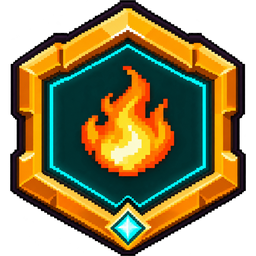
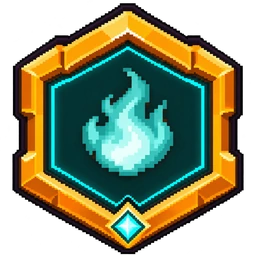
feat(hexsmith): chama turquesa e botões de renomear mais acima

diff --git a/src/components/hex/HexsmithSheet.tsx b/src/components/hex/HexsmithSheet.tsx
@@ -63,8 +63,8 @@ const PORTS: Readonly<Record<HexSlot, { x: number; y: number }>> = {
   luvas: { x: 78.6, y: 82.3 },
 };
 const CORE = { x: 49.8, y: 53.5 };
-/** Os 2 botões de RENOMEAR: na linha da Coroa, à direita dela (entre a Coroa e a Garra). */
-const RENAME_PORTS: Readonly<Record<HexRenameKind, { x: number; y: number }>> = { pet: { x: 73.5, y: 16.5 }, especial: { x: 91, y: 16.5 } };
+/** Os 2 botões de RENOMEAR: um pouco ACIMA da linha da Coroa (y 11,5 contra 16,5; 12/11), à direita dela. */
+const RENAME_PORTS: Readonly<Record<HexRenameKind, { x: number; y: number }>> = { pet: { x: 73.5, y: 11.5 }, especial: { x: 91, y: 11.5 } };
 
 /** Degraus de `tokens.md` §6.1: `nav` 32 no mapa (o encaixe é um destino), `action` 24 nas linhas e no botão, `inline` 20 no saldo. */
 const ICON_MAP = 32;

diff --git a/docs/ASSETS-A-GERAR.md b/docs/ASSETS-A-GERAR.md
@@ -60,7 +60,7 @@ Hoje a tela usa hexágonos GENERATIVOS em código (`src/components/hex/HexRename
 | id | arquivo | uso | formato | prompt (EN) |
 |---|---|---|---|---|
 | ✅ 11/11 `hexsmith-btn-lapis` | `src/assets/soulmon/hexsmith/btn-lapis.webp` | botão da Hexsmith: trocar o NOME do Soulmon (à direita da Coroa) | 256×256, alfa real, fundo transparente, mesmo tamanho dos 5 hexágonos | `A single hexagonal game-UI button, same style, colors, frame thickness and glow as the five port hexagons of the Hexsmith screen (dark teal inner hex, thick colored metallic rim in magenta-pink, small cyan diamond studs at the top and bottom vertices), a clean pencil icon inside (diagonal pencil with eraser, slightly worn silver and cream), pixel-crisp, transparent background, centered, no text, no gear, square 1:1` |
-| ✅ 11/11 `hexsmith-btn-chama` | `src/assets/soulmon/hexsmith/btn-chama.webp` | botão da Hexsmith: trocar o NOME do ESPECIAL | 256×256, alfa real, fundo transparente, mesmo tamanho dos 5 hexágonos | `A single hexagonal game-UI button, same style, colors, frame thickness and glow as the five port hexagons of the Hexsmith screen (dark teal inner hex, thick colored metallic rim in warm orange, small cyan diamond studs at the top and bottom vertices), a small flame icon inside (orange-yellow fire with a bright core), pixel-crisp, transparent background, centered, no text, no gear, square 1:1` |
+| ✅ 11/11 `hexsmith-btn-chama` | `src/assets/soulmon/hexsmith/btn-chama.webp` | botão da Hexsmith: trocar o NOME do ESPECIAL | 256×256, alfa real, fundo transparente, mesmo tamanho dos 5 hexágonos | `A single hexagonal game-UI button, same style, colors, frame thickness and glow as the five port hexagons of the Hexsmith screen (dark teal inner hex, thick colored metallic rim in warm orange, small cyan diamond studs at the top and bottom vertices), a small flame icon inside (RECOLORIDA em 12/11/2026 para fogo TURQUESA: núcleo #7ff7ee, bordas #1fb5ad; a laranja ficou em E:Soulmon-assetshexsmith-btnsbtn-chama-laranja.png), pixel-crisp, transparent background, centered, no text, no gear, square 1:1` |
 
 Anexar como referência de estilo o print da tela da Hexsmith (os 5 hexágonos). Transparência real: `gpt_image_2 --background transparent`, nunca chroma.
 
